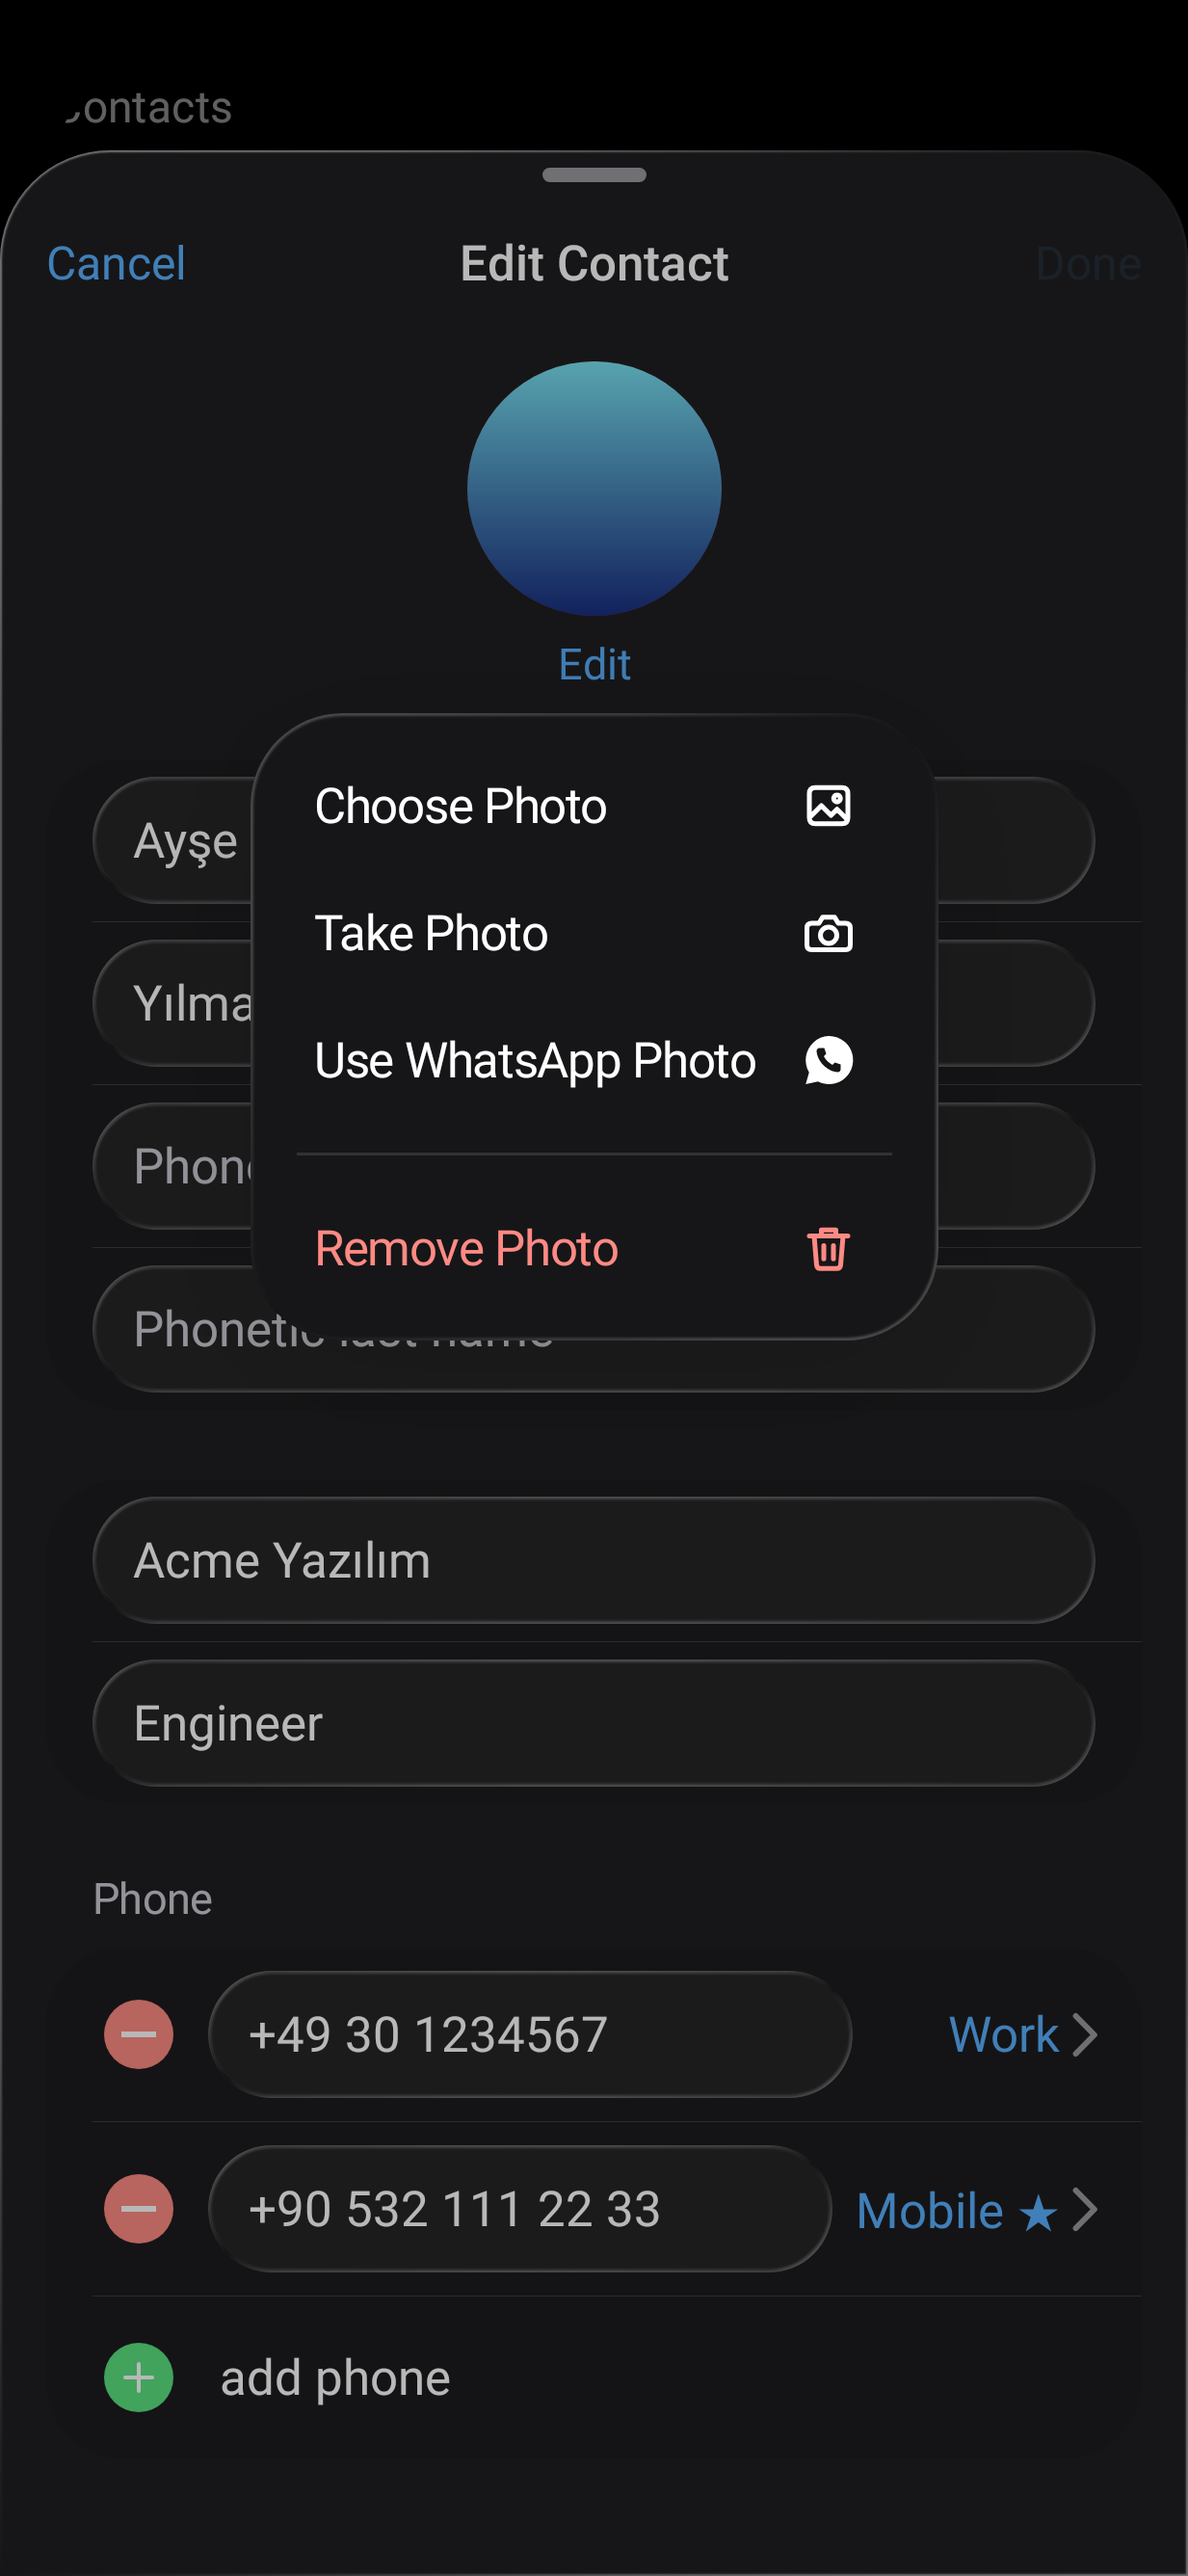
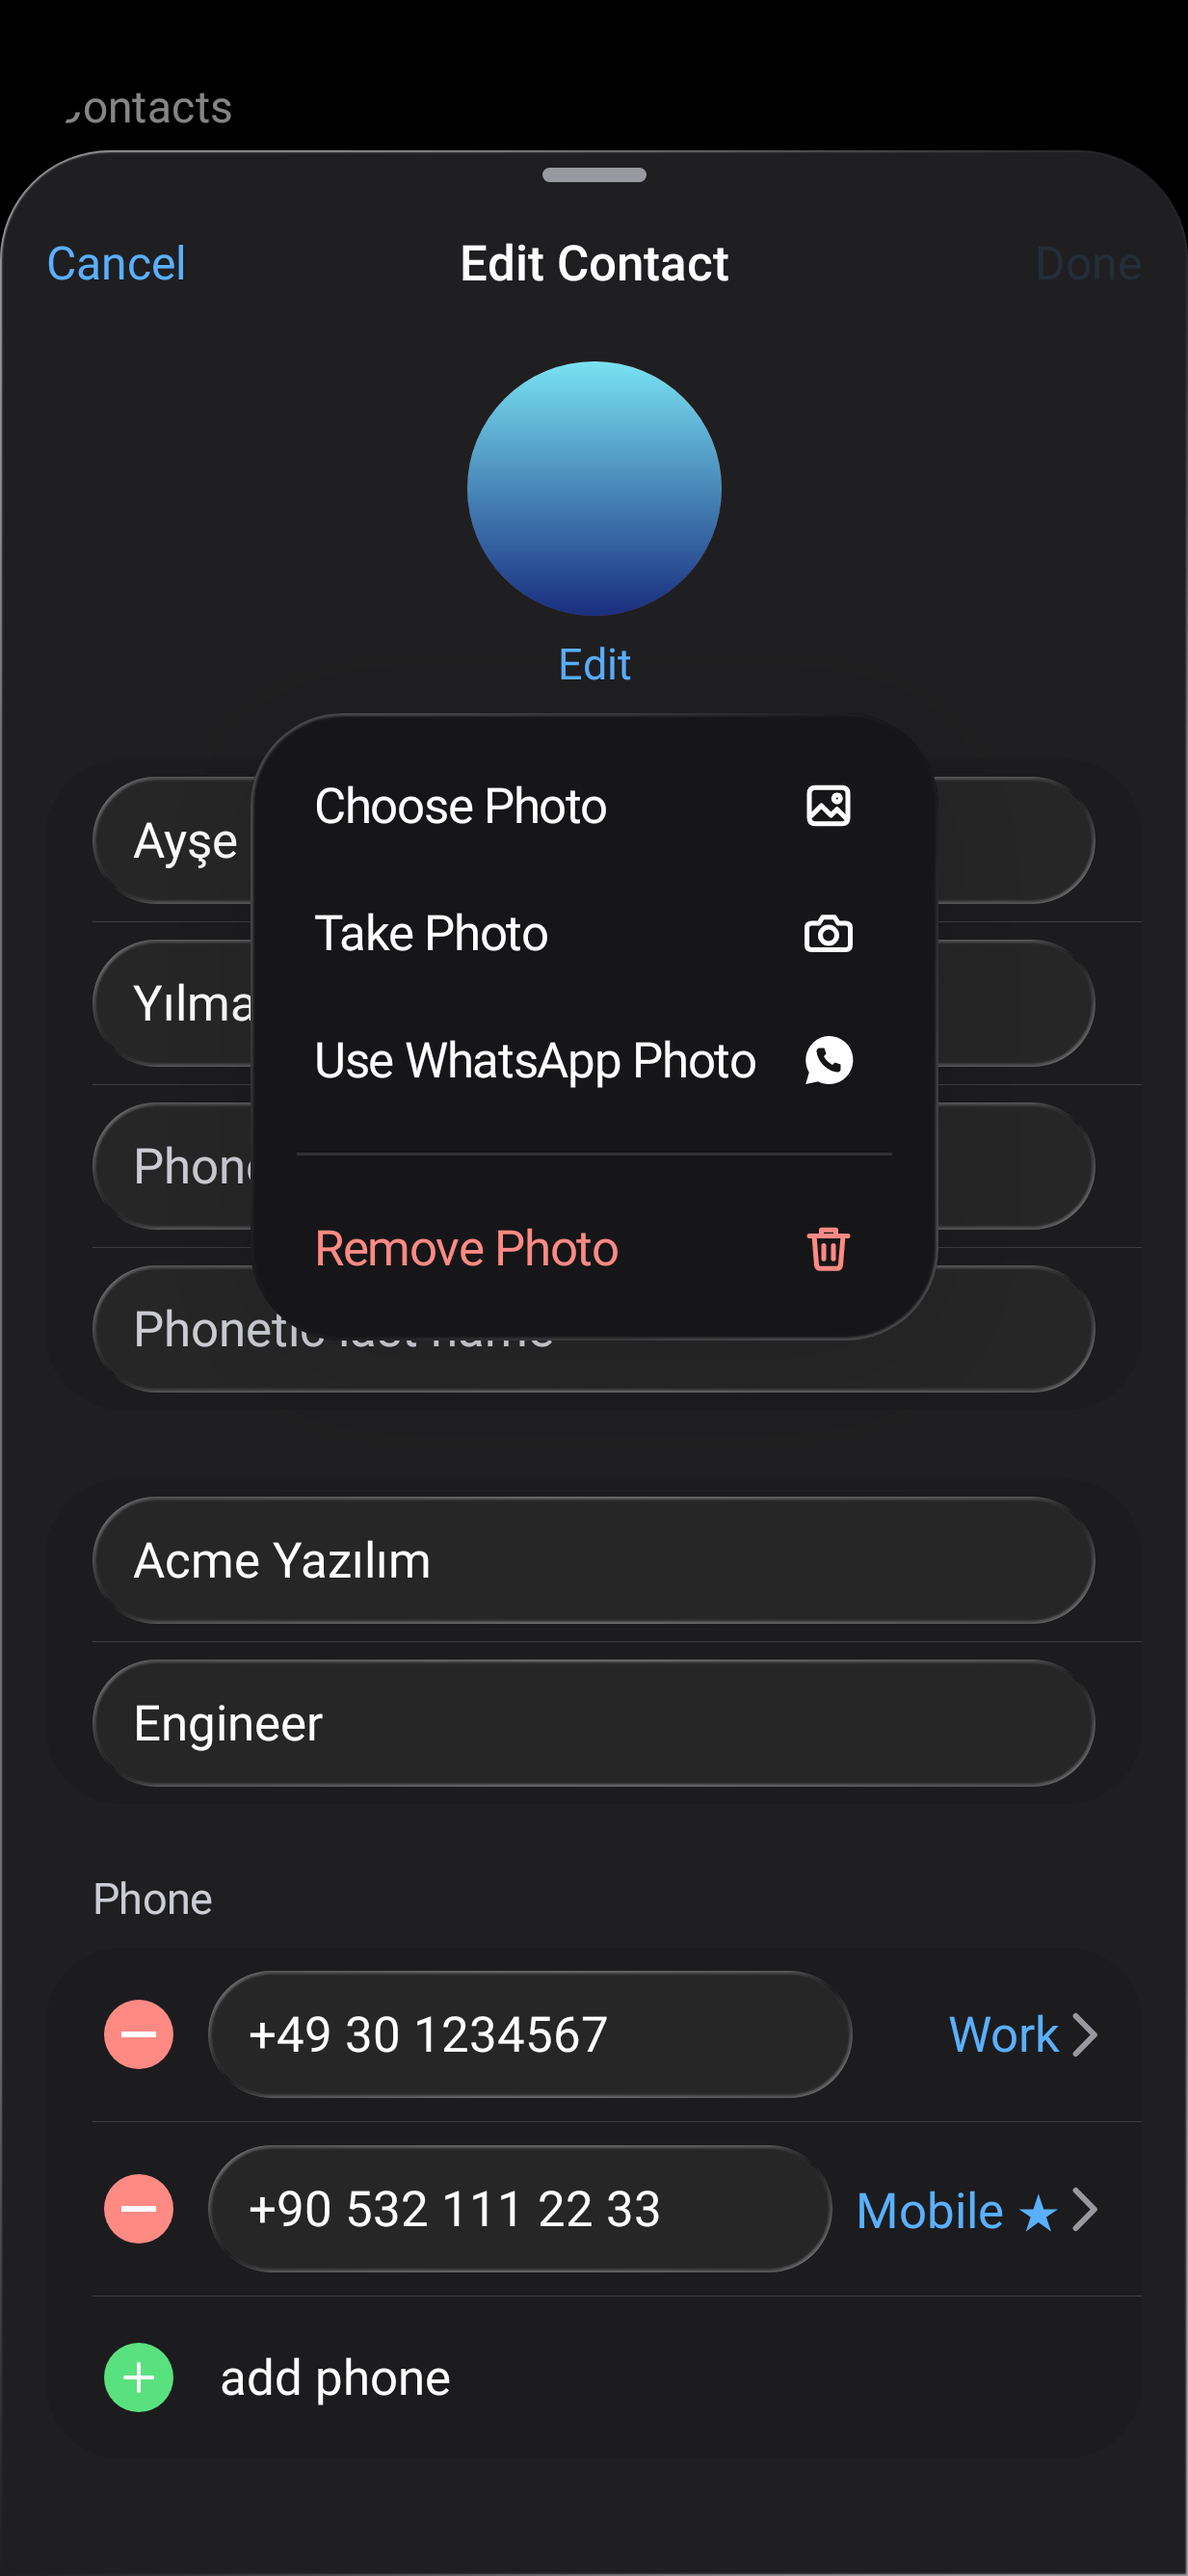
wip: X.4 step 1 (menus over sheets), backup during the break
Claude-Session: https://claude.ai/code/session_011osUpA1K6vuojYE5Xq1SJx

diff --git a/android/design/src/test/kotlin/dev/rosty/design/overlay/MenuOverSheetScrimTest.kt b/android/design/src/test/kotlin/dev/rosty/design/overlay/MenuOverSheetScrimTest.kt
@@ -1,0 +1,119 @@
+package dev.rosty.design.overlay
+
+import androidx.compose.foundation.background
+import androidx.compose.foundation.layout.Box
+import androidx.compose.foundation.layout.fillMaxSize
+import androidx.compose.foundation.text.BasicText
+import androidx.compose.ui.Modifier
+import androidx.compose.ui.geometry.Offset
+import androidx.compose.ui.geometry.Rect
+import androidx.compose.ui.graphics.Color
+import androidx.compose.ui.graphics.toArgb
+import androidx.compose.ui.graphics.toPixelMap
+import androidx.compose.ui.test.captureToImage
+import androidx.compose.ui.test.click
+import androidx.compose.ui.test.onNodeWithText
+import androidx.compose.ui.test.onRoot
+import androidx.compose.ui.test.performTouchInput
+import dev.rosty.testing.ShotTest
+import kotlinx.collections.immutable.persistentListOf
+import org.junit.Assert.assertEquals
+import org.junit.Assert.assertFalse
+import org.junit.Assert.assertTrue
+import org.junit.Test
+import kotlin.math.abs
+
+/**
+ * A menu that opens off a button does not dim a sheet below it (owner, 2026-11-19); over the plain page it keeps its
+ * scrim, and a tap outside the menu closes only the menu.
+ */
+class MenuOverSheetScrimTest : ShotTest() {
+    private val controller = OverlayController()
+
+    private fun run(ms: Long) = repeat((ms / 100).toInt()) { advance(100) }
+
+    private fun menu() =
+        ButtonMenuEntry(
+            Rect(300f, 120f, 400f, 200f),
+            persistentListOf<MenuItem>(
+                MenuItem.Action("Copy", onClick = {
+                }),
+            ),
+        )
+
+    private fun sheet() =
+        SheetEntry(title = "Sheet", detents = persistentListOf(Detent.Large)) { BasicText("sheet body") }
+
+    private fun start(dark: Boolean) =
+        composeFrame(dark = dark) {
+            OverlayHost(controller) { Box(Modifier.fillMaxSize().background(Color.White)) }
+        }
+
+    /** The ARGB of the window at ([x], [y]) px. */
+    private fun pixel(
+        x: Int,
+        y: Int,
+    ): Int {
+        val image = compose.onRoot().captureToImage()
+        val map = image.toPixelMap()
+        return map[x, y].toArgb()
+    }
+
+    private fun assertSame(
+        a: Int,
+        b: Int,
+    ) {
+        for (shift in listOf(16, 8, 0)) {
+            val d = abs(((a shr shift) and 255) - ((b shr shift) and 255))
+            assertTrue("channel $shift moved by $d (${a.toString(16)} vs ${b.toString(16)})", d <= 2)
+        }
+    }
+
+    private fun sheetDoesNotDim(dark: Boolean) {
+        start(dark)
+        compose.runOnUiThread { controller.present(sheet()) }
+        run(1500)
+        val w = compose.onRoot().captureToImage().width
+        val h = compose.onRoot().captureToImage().height
+        val x = 24
+        val y = h - 24
+        val before = pixel(x, y)
+        compose.runOnUiThread { controller.present(menu()) }
+        run(1000)
+        assertSame(before, pixel(x, y))
+        assertTrue(w > 0)
+    }
+
+    @Test fun overAnOpenSheetLightKeepsTheSurface() = sheetDoesNotDim(false)
+
+    @Test fun overAnOpenSheetDarkKeepsTheSurface() = sheetDoesNotDim(true)
+
+    @Test fun overThePlainPageItStillDims() {
+        start(false)
+        val h = compose.onRoot().captureToImage().height
+        val before = pixel(24, h - 24)
+        compose.runOnUiThread { controller.present(menu()) }
+        run(1000)
+        val after = pixel(24, h - 24)
+        val beforeR = (before shr 16) and 255
+        val afterR = (after shr 16) and 255
+        // 0.14 black over white is 255 * 0.86 = 219.
+        assertEquals(255, beforeR)
+        assertEquals(219f, afterR.toFloat(), 3f)
+    }
+
+    @Test fun anOutsideTapClosesTheMenuAndKeepsTheSheet() {
+        start(false)
+        compose.runOnUiThread { controller.present(sheet()) }
+        run(1500)
+        val entry = menu()
+        compose.runOnUiThread { controller.present(entry) }
+        run(1000)
+        val h = compose.onRoot().captureToImage().height
+        compose.onRoot().performTouchInput { click(Offset(24f, (h - 24).toFloat())) }
+        run(1500)
+        assertFalse("the menu is gone", entry in controller.entries)
+        assertTrue("the sheet stays", controller.entries.any { it is SheetEntry })
+        compose.onNodeWithText("sheet body").assertExists()
+    }
+}

diff --git a/android/design/src/main/kotlin/dev/rosty/design/ios/component/IosContextMenu.kt b/android/design/src/main/kotlin/dev/rosty/design/ios/component/IosContextMenu.kt
@@ -9,7 +9,8 @@
  * 1.05 lift, scale-from-anchor with a blur that clears, and the above/below rule are Convx's. Rosty additions: the lifted
  * copy is measured at the anchor's exact size and carries a shadow, the menu is kept inside the safe area, reduce
  * motion fades instead of scaling, the panel takes focus and a finger that went down on the trigger can slide over it
- * ([SlideTarget]).
+ * ([SlideTarget]). A menu over an open sheet can skip its scrim ([IosContextMenuEntry.dimsOverSheet]) so the sheet
+ * keeps its surface.
  */
 package dev.rosty.design.ios.component
 
@@ -197,6 +198,8 @@ open class IosContextMenuEntry(
     private val debugTag: String = "menu.panel",
     title: String = "",
     titleRes: Int = R.string.design_menu,
+    /** Rosty: `false` leaves the scrim out while a sheet is open below (the outside tap still dismisses). */
+    private val dimsOverSheet: Boolean = true,
 ) : OverlayEntry(modal = true, title = title, titleRes = titleRes),
     SlideTarget {
     private var slide by mutableStateOf<Flow<Offset>?>(null)
@@ -247,7 +250,13 @@ open class IosContextMenuEntry(
         val menuOrigin = remember { intArrayOf(0, 0) }
 
         // Rosty: 0.14 on a light page (Convx's 0.28 greyed a white page), 0.28 on a dark one.
-        val scrimTarget = if (IosTheme.colors.isDark) ScrimAlpha else ScrimAlpha / 2f
+        val overSheet = !dimsOverSheet && !host.controller.topBelow(this).isNaN()
+        val scrimTarget =
+            when {
+                overSheet -> 0f
+                IosTheme.colors.isDark -> ScrimAlpha
+                else -> ScrimAlpha / 2f
+            }
         val scrimAlpha =
             transition.animateFloat(
                 transitionSpec = {

diff --git a/android/design/src/main/kotlin/dev/rosty/design/overlay/ButtonMenu.kt b/android/design/src/main/kotlin/dev/rosty/design/overlay/ButtonMenu.kt
@@ -32,7 +32,7 @@ import kotlinx.coroutines.flow.receiveAsFlow
 class ButtonMenuEntry(
     anchor: Rect,
     items: ImmutableList<MenuItem>,
-) : IosContextMenuEntry(anchor = anchor, sections = items.toSections())
+) : IosContextMenuEntry(anchor = anchor, sections = items.toSections(), dimsOverSheet = false)
 
 /**
  * Makes this element open a [ButtonMenuEntry] on *down* (not on lift), anchored to the element's bounds as they were
